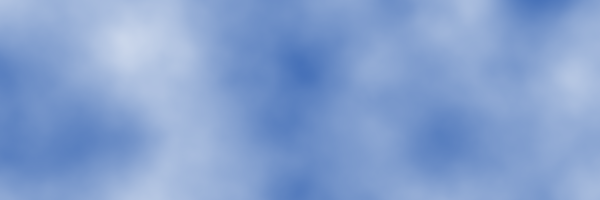
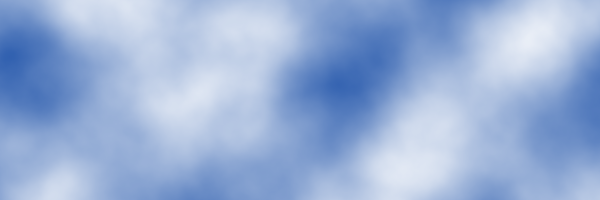
use scrollable perlin noise to optimize cloud effect

diff --git a/script/PerlinNoiseScroller.js b/script/PerlinNoiseScroller.js
@@ -1,0 +1,94 @@
+/*
+ * moveOriginData: false if need optimizaztion, and then use getPasteRectV() and getPasteRectH() to get the changed rect and copy pixels
+ */
+function PerlinNoiseScroller(imageData, maxScrollX, maxScrollY, moveOriginData, baseX, baseY, numOctaves, randomSeed, stitch, fractalNoise, channelOptions, grayScale, offsets, gain, lacunaity) {
+    if (stitch) {
+        alert("stitch==true: us ImageDataScroller instead");
+    }
+    offsets = offsets || [];
+    maxScrollX = maxScrollX || 5;
+    maxScrollY = maxScrollY || 5;
+    var bmpW = imageData.width;
+    var bmpH = imageData.height;
+    var sliceDataV = ctx.createImageData(maxScrollX, bmpH);
+    var sliceDataH = ctx.createImageData(bmpW, maxScrollY);
+    
+    var totalScrollX = 0;
+    var totalScrollY = 0;
+    var pasteRectV;
+    var pastePointV;
+    var pasteRectH;
+    var pastePointH;
+    
+    var offsetsBak  = [];
+    var offsetsTmp  = [];
+    for (var i = 0; i < numOctaves; ++i) {
+        offsetsBak[i] = (offsets && i < offsets.length && offsets[i]) ? 
+            {x:offsets[i].x, y:offsets[i].y} : 
+            ImageData.ORIGIN;
+        offsetsTmp[i] = ImageData.ORIGIN;
+    }
+    
+    imageData.perlinNoise(baseX, baseY, numOctaves, randomSeed, stitch, fractalNoise, channelOptions, grayScale, offsets, gain, lacunaity);
+    sliceDataV.SimplexArray = imageData.SimplexArray;
+    sliceDataH.SimplexArray = imageData.SimplexArray;
+
+    
+    this.getImageData = function() {
+        return imageData;
+    }
+
+    this.getPasteRectV = function() {
+        return {l:pastePointV.x, r:pastePointV.x + pasteRectV.r - pasteRectV.l, t:pastePointV.y, b:pastePointV.y + pasteRectV.b - pasteRectV.t};
+    }
+    
+    this.getPasteRectH= function() {
+        return {l:pastePointH.x, r:pastePointH.x + pasteRectH.r - pasteRectH.l, t:pastePointH.y, b:pastePointH.y + pasteRectH.b - pasteRectH.t};
+    }
+
+    this.scroll = function(scrollX, scrollY) {
+        scrollX = ImageData.clamp(scrollX, -maxScrollX, maxScrollX);
+        scrollY = ImageData.clamp(scrollY, -maxScrollY, maxScrollY);
+        totalScrollX += scrollX;
+        totalScrollY += scrollY;
+
+        pasteRectV = {l:0, r:Math.abs(scrollX), t:0, b:bmpH - Math.abs(scrollY)};
+        pastePointV = {x:0, y:scrollY};
+        pasteRectH = {l:0, r:bmpW, t:0, b:Math.abs(scrollY)};
+        pastePointH = {x:0, y:0}; 
+        if (scrollX < 0) {
+            pastePointV.x = bmpW + scrollX;
+        }
+        if (scrollY < 0) {
+            pastePointH.y = bmpH + scrollY;
+            pastePointV.y = 0;
+        }
+    
+        if (scrollX != 0) {
+            var offsetX = pastePointV.x - totalScrollX;
+            var offsetY = pastePointV.y - totalScrollY;
+            for (var i = 0; i < numOctaves; ++i) {
+                offsetsTmp[i] = {x:offsetX + offsetsBak[i].x, y:offsetY + offsetsBak[i].y};
+            }
+            sliceDataV.perlinNoise(baseX, baseY, numOctaves, randomSeed, stitch, fractalNoise, channelOptions, grayScale, offsetsTmp, gain, lacunaity);
+        }
+        if (scrollY != 0) {
+            var offsetX = pastePointH.x - totalScrollX;
+            var offsetY = pastePointH.y - totalScrollY;
+            for (var i = 0; i < numOctaves; ++i) {
+                offsetsTmp[i] = {x:offsetX + offsetsBak[i].x, y:offsetY + offsetsBak[i].y};
+            }
+            sliceDataH.perlinNoise(baseX, baseY, numOctaves, randomSeed, stitch, fractalNoise, channelOptions, grayScale, offsetsTmp, gain, lacunaity);
+        }
+        if (moveOriginData) {
+            imageData.scroll(scrollX, scrollY);
+        }
+        if (scrollX != 0) {
+            imageData.copyPixels(sliceDataV, pasteRectV, pastePointV);
+        }
+        if (scrollY != 0) {
+           imageData.copyPixels(sliceDataH, pasteRectH, pastePointH);
+        }
+    }
+
+}

diff --git a/script/ImageData.js b/script/ImageData.js
@@ -92,13 +92,13 @@ ImageData.prototype.copyPixels = function(srcBitmap, srcRect, dstPoint) {
     var y0 = dstRect.t;
     var x1 = dstRect.r;
     var y1 = dstRect.b;
-    if (x0 >= x1 || y0 >= y1) return;
     var dst = this.data;
     var dy = 1;
     if (isNaN(x0) || isNaN(x1) || isNaN(y0) || isNaN(y1)) {
         alert("Error - ImageData.copyPixels: x0=" + x0 + " x1=" + x1 + " dx=" + dx + " y0=" + y0 + " y1=" + y1 + " dy=" + dy);
         return;
     }
+    if (x0 >= x1 || y0 >= y1) return;
     var src = srcBitmap.data;
     if (src == dst && dstPoint.y > srcRect.t) {
         dy = -dy;
@@ -115,14 +115,39 @@ ImageData.prototype.copyPixels = function(srcBitmap, srcRect, dstPoint) {
     }
 }
 
+/*
+ * fillRect(rect:Rectangle, color:uint):void
+ */
+ImageData.prototype.fillRect = function(rect, color) {
+    rect = rect || this.getRect();
+    color = color || 0;
+    if (isNaN(rect.l) || isNaN(rect.r) || isNaN(rect.t) || isNaN(rect.b)) {
+        alert("Error - ImageData.fillRect: rect.l=" + rect.l + " rect.r=" + rect.r + " rect.t=" + rect.t + " rect.b=" + rect.b);
+        return;
+    }
+    rect = this.calDstRect(rect, ImageData.ORIGIN);
+    if (rect.l >= rect.r || rect.t >= rect.b) return;
 
-var SimplexArray =[new SimplexNoise(), new SimplexNoise() , new SimplexNoise(), new SimplexNoise(), ];
+    var W = rect.r - rect.l;
+    var H = rect.b - rect.t;
+    var srcArray = new Uint32Array(this.data.buffer, 0, W);
+    for (var i = 0; i < W; ++i) {
+        srcArray[i] = 0xFF000000;
+    }
+    for (var y = 1; y < H; ++y) {
+        var dstArray = new Uint32Array(this.data.buffer, (this.width * y + rect.l) * 4, W);
+        dstArray.set(srcArray);
+    }
+}
+
+var SimplexArray = [];
 
 /*
  * public function perlinNoise(baseX:Number, baseY:Number, numOctaves:uint, randomSeed:int, stitch:Boolean, fractalNoise:Boolean, 
  *      channelOptions:uint = 7, grayScale:Boolean = false, offsets:Array = null, gain:Number = 0.5, lacunaity:Number = 2):void
  */
 ImageData.prototype.perlinNoise = function(baseX, baseY, numOctaves, randomSeed, stitch, fractalNoise, channelOptions, grayScale, offsets, gain, lacunaity) {
+    SimplexArray = SimplexArray.length > 0 ?  SimplexArray : [new SimplexNoise(), new SimplexNoise() , new SimplexNoise(), new SimplexNoise(), ];
     var invBaseX = 1.0 / baseX;
     var invBaseY = 1.0 / baseY;
     if (numOctaves < 1) numOctaves = 1;
@@ -235,6 +260,8 @@ ImageData.prototype.perlinNoise = function(baseX, baseY, numOctaves, randomSeed,
     var OffsetX = 0;
     var OffsetY = 0;
 
+    this.fillRect(null, 0xFF000000);
+
     if (!stitch) {
         if (fractalNoise) {
             for (var comp = 0; comp < 4; ++comp) {
@@ -298,21 +325,6 @@ ImageData.prototype.perlinNoise = function(baseX, baseY, numOctaves, randomSeed,
                         data[idx + comp] = data[idx];
                         idx += 4;
                     }
-                }
-            } else {
-                // comment this section for optimization, cuz' these channels would not be used
-                for (var y = 0, idx = 0; y < H; ++y) {
-                    for (var x = 0; x < W; ++x) {
-                        data[idx + comp] = 0;
-                        idx += 4;
-                    }
-                }
-            }
-        } else {
-            for (var y = 0, idx = comp; y < H; ++y) {
-                for (var x = 0; x < W; ++x) {
-                    data[idx] = 255;
-                    idx += 4;
                 }
             }
         }

diff --git a/2014/Roving-Cloud.html b/2014/Roving-Cloud.html
@@ -41,6 +41,7 @@
         <script src="/script/simplex-noise.min.js"></script>
         <script src="/script/ImageData.js"></script>
         <script src="/script/ColorMatrixFilter.js"></script>
+        <script src="/script/PerlinNoiseScroller.js"></script>
         <script src="/script/ImageDataScroller.js"></script>
         <script>
                 var canvas = document.getElementById("canvas");
@@ -74,9 +75,10 @@
                     ctx.putImageData(perlinBitmap, 0, 0);
                     ctx.fillRect(0, 0, W, H);   //draw sky
 
-                }, 16);
+                }, 8);
 */
-///*
+
+/*
                 //optimized version, use tilable perlin noise map to scroll endlessly
                 var perlinBitmap = ctx.createImageData(W / 2 * 3, H / 2 * 3);   //1.5x size can hide the repetition
                 perlinBitmap.perlinNoise(200, 200, numOctaves, 0, true, true, 1, false, offsets, 0.25, 2.5);
@@ -87,10 +89,38 @@
                     ctx.putImageData(scroller.getImageData(), 0, 0);
                     ctx.fillRect(0, 0, W, H);   //draw sky
 
-                }, 16);
+                }, 8);
+*/
+
+///*
+                //2014-03-30 updated: optimized version, scroll a non-tilable perlin noise map
+                var perlinBitmap = ctx.createImageData(W, H);
+                var copyBitmap = ctx.createImageData(W, H);
+                var fast = true;    //switch two versions, fast and slow
+                var scroller = new PerlinNoiseScroller(perlinBitmap, 2, 2, !fast, 240, 240, numOctaves, 0, false, true, 1, false, offsets, 0.2, 3);
+                copyBitmap.copyPixels(perlinBitmap);
+                copyBitmap.applyFilter(perlinBitmap, null, null, cmf);
+                
+               setInterval(function() {
+                    scroller.scroll(-2, 1);
+                    if (fast) {
+                        copyBitmap.scroll(-2, 1);
+                        var rectV = scroller.getPasteRectV();
+                        var rectH = scroller.getPasteRectH();
+                        copyBitmap.applyFilter(perlinBitmap, rectV, {x:rectV.l, y:rectV.t}, cmf);
+                        copyBitmap.applyFilter(perlinBitmap, rectH, {x:rectH.l, y:rectH.t}, cmf);
+                    } else {
+                        copyBitmap.applyFilter(perlinBitmap, null, null, cmf);
+                    }
+                    ctx.putImageData(copyBitmap, 0, 0);
+                    ctx.fillRect(0, 0, W, H);   //draw sky
+                    requestAnimationFrame(animLoop);
+                }, 8);
+
 //*/
 
         </script>
+		
 		
 
 

diff --git a/script/raf_polyfill.js b/script/raf_polyfill.js
@@ -1,0 +1,30 @@
+// http://paulirish.com/2011/requestanimationframe-for-smart-animating/
+// http://my.opera.com/emoller/blog/2011/12/20/requestanimationframe-for-smart-er-animating
+
+// requestAnimationFrame polyfill by Erik Möller
+// fixes from Paul Irish and Tino Zijdel
+
+(function() {
+    var lastTime = 0;
+    var vendors = ['ms', 'moz', 'webkit', 'o'];
+    for(var x = 0; x < vendors.length && !window.requestAnimationFrame; ++x) {
+        window.requestAnimationFrame = window[vendors[x]+'RequestAnimationFrame'];
+        window.cancelAnimationFrame = window[vendors[x]+'CancelAnimationFrame'] 
+                                   || window[vendors[x]+'CancelRequestAnimationFrame'];
+    }
+ 
+    if (!window.requestAnimationFrame)
+        window.requestAnimationFrame = function(callback, element) {
+            var currTime = new Date().getTime();
+            var timeToCall = Math.max(0, 16 - (currTime - lastTime));
+            var id = window.setTimeout(function() { callback(currTime + timeToCall); }, 
+              timeToCall);
+            lastTime = currTime + timeToCall;
+            return id;
+        };
+ 
+    if (!window.cancelAnimationFrame)
+        window.cancelAnimationFrame = function(id) {
+            clearTimeout(id);
+        };
+}());
